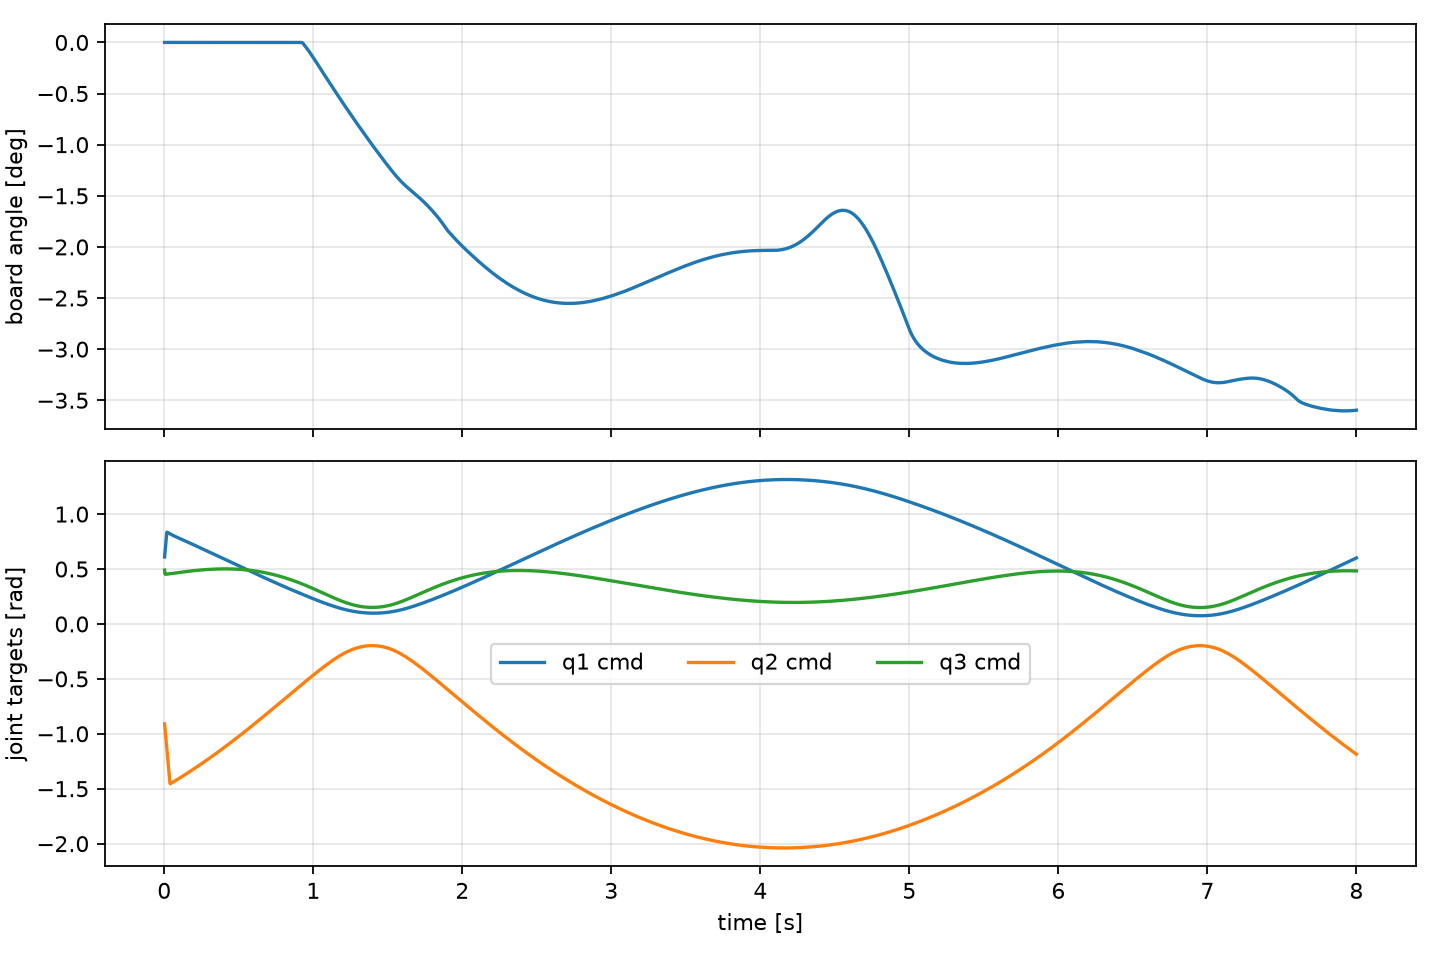
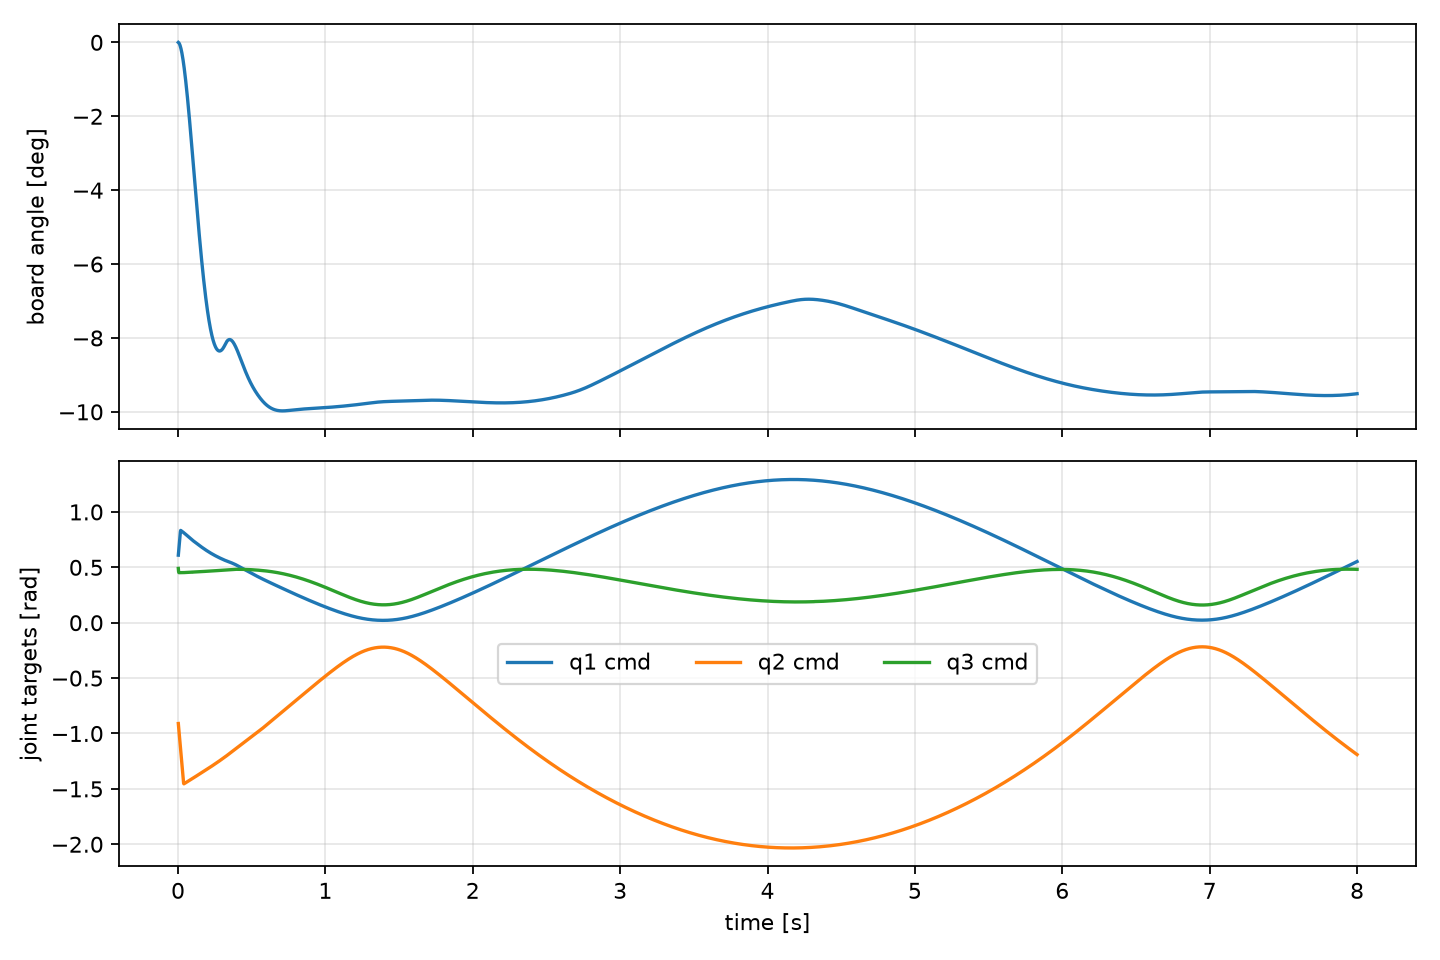
Partially working code done with codex 2

diff --git a/src/board.py b/src/board.py
@@ -68,7 +68,19 @@ def pen_position_xz(data: mujoco.MjData, pen_site_id: int) -> np.ndarray:
     return np.array([site_pos[0], site_pos[2]], dtype=float)
 
 
-def board_frame_from_model() -> BoardFrame:
-    # Mirrors model/scene.xml.  Keeping this explicit avoids reading geometry
-    # dimensions from MuJoCo in multiple places and makes assumptions visible.
-    return BoardFrame.default()
+def board_frame_from_model(model: mujoco.MjModel | None = None) -> BoardFrame:
+    """Build the analytical board frame from the MuJoCo geometry.
+
+    The controller uses this light-weight frame for IK, while MuJoCo remains
+    the source of truth for the simulated body.  Reading the hinge position and
+    surface height here avoids a silent mismatch if the XML board dimensions
+    are tuned.
+    """
+    if model is None:
+        return BoardFrame.default()
+
+    body_id = mujoco.mj_name2id(model, mujoco.mjtObj.mjOBJ_BODY, "board_base")
+    geom_id = mujoco.mj_name2id(model, mujoco.mjtObj.mjOBJ_GEOM, "board_geom")
+    hinge_xz = np.array([model.body_pos[body_id, 0], model.body_pos[body_id, 2]], dtype=float)
+    surface_offset = float(model.geom_pos[geom_id, 2] + model.geom_size[geom_id, 2])
+    return BoardFrame(hinge_xz=hinge_xz, surface_offset=surface_offset)

diff --git a/src/controller.py b/src/controller.py
@@ -48,8 +48,8 @@ class MovingFrameIKController:
         theta_ref: np.ndarray | None = None,
         joint_limits: tuple[tuple[float, float], ...] = ((-2.85, 2.85), (-2.65, 2.65), (-2.65, 2.65)),
         pen_radius: float = 0.010,
-        normal_rate_m_per_n_step: float = 1.0e-4,
-        normal_offset_limits: tuple[float, float] = (0.004, 0.018),
+        normal_rate_m_per_n_step: float = 1.5e-4,
+        normal_offset_limits: tuple[float, float] = (-0.004, 0.018),
         w_position: float = 25.0,
         w_posture: float = 0.002,
         w_step: float = 0.0005,
@@ -69,7 +69,14 @@ class MovingFrameIKController:
         self.normal_offset = self.pen_radius
 
     def normal_offset_from_force(self, measured_force_n: float) -> float:
-        """Rate-limit the force loop to avoid impact impulses at first contact."""
+        """Rate-limit the force loop to avoid impact impulses at first contact.
+
+        The lower offset is allowed slightly below zero because this is a
+        commanded sphere-center target, not a hard geometric constraint.  A
+        small virtual penetration is the impedance-control mechanism that lets
+        the MuJoCo contact model develop the requested normal force despite
+        actuator compliance.
+        """
         if measured_force_n < self.force_band.lower:
             self.normal_offset -= self.normal_rate * (self.force_band.center - measured_force_n)
         elif measured_force_n > self.force_band.upper:

diff --git a/src/simulation.py b/src/simulation.py
@@ -46,8 +46,9 @@ def run_experiment(
     ids = resolve_contact_ids(model)
 
     arm = Arm3R.from_lengths()
-    board = board_frame_from_model()
-    controller = MovingFrameIKController(arm=arm, board=board, force_band=ForceBand(lower=1.2, upper=3.0))
+    board = board_frame_from_model(model)
+    force_band = ForceBand(lower=1.2, upper=3.0)
+    controller = MovingFrameIKController(arm=arm, board=board, force_band=force_band)
     trajectory = BoardTrajectory()
     max_cmd_step = 0.030
 
@@ -70,6 +71,7 @@ def run_experiment(
         "normal_force": np.zeros(steps),
         "board_angle": np.zeros(steps),
         "normal_offset_cmd": np.zeros(steps),
+        "force_band": np.repeat([[force_band.lower, force_band.upper]], steps, axis=0),
         "ik_cost": np.zeros(steps),
         "ik_success": np.zeros(steps, dtype=bool),
     }